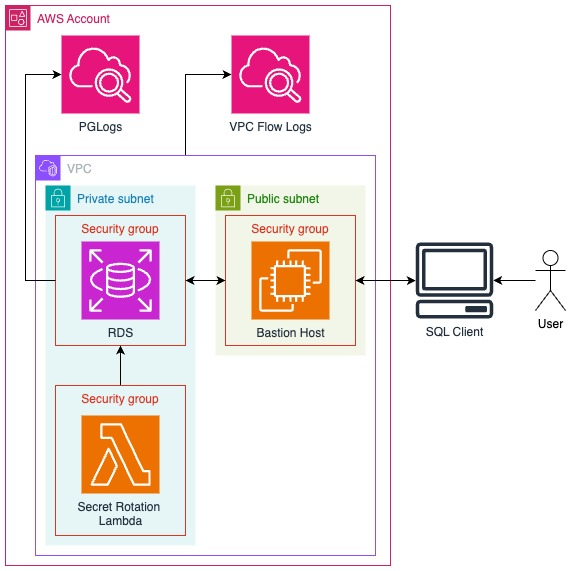
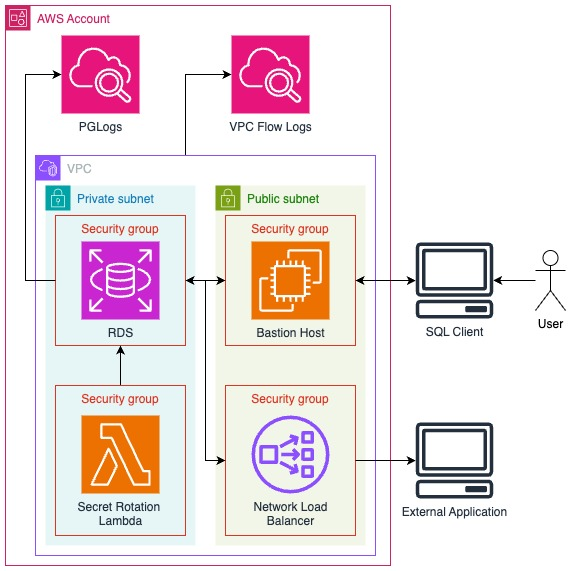
Added NLB option, improved tests

Changed region(s): [[0.3573, 0.655, 0.6252, 0.9527], [0.7145, 0.7145, 0.8932, 0.9229]]

diff --git a/lib/single-instance-rds.ts b/lib/single-instance-rds.ts
@@ -43,6 +43,9 @@ import {
 } from 'aws-cdk-lib/aws-cloudwatch';
 import {LogGroup, RetentionDays} from 'aws-cdk-lib/aws-logs';
 import {ServicePrincipal} from 'aws-cdk-lib/aws-iam';
+import {NetworkLoadBalancer, NetworkTargetGroup, TargetType} from 'aws-cdk-lib/aws-elasticloadbalancingv2';
+import {AwsCustomResource, AwsCustomResourcePolicy, PhysicalResourceId} from 'aws-cdk-lib/custom-resources';
+import {IpTarget} from 'aws-cdk-lib/aws-elasticloadbalancingv2-targets';
 
 // TODO: Cloudtrail
 
@@ -56,6 +59,8 @@ interface SingleInstanceRdsProps extends StackProps {
     passwordRotationInterval?: Duration;
     rdsPort?: number;
     removalPolicy?: RemovalPolicy;
+    withNlb?: boolean;
+    applicationIpAddress?: string;
 }
 
 export default class SingleInstanceRds {
@@ -69,6 +74,16 @@ export default class SingleInstanceRds {
 
     bastion: Instance;
 
+    nlb?: NetworkLoadBalancer;
+
+    current_timestamp = new Date().toISOString()
+        // eslint-disable-next-line prefer-regex-literals
+        .replace(new RegExp('\\.', 'g'), '')
+        // eslint-disable-next-line prefer-regex-literals
+        .replace(new RegExp(':', 'g'), '')
+        // eslint-disable-next-line prefer-regex-literals
+        .replace(new RegExp('-', 'g'), '');
+
     constructor(props: SingleInstanceRdsProps) {
         const {scope,} = props;
         const dbInstanceType = props.dbInstanceType
@@ -80,6 +95,8 @@ export default class SingleInstanceRds {
             : Duration.days(1);
         const rdsPort = props.rdsPort ? props.rdsPort : 5432;
         const removalPolicy = props.removalPolicy ? props.removalPolicy : RemovalPolicy.DESTROY;
+        const withNlb = props.withNlb ? props.withNlb : false;
+        const applicationIpAddress = props.applicationIpAddress ? props.applicationIpAddress : '';
 
         /// /////////////////////////////////////////////////
         /// /////////////////////////////////////////////////
@@ -273,6 +290,90 @@ export default class SingleInstanceRds {
         /// /////////////////////////////////////////////////
         /// /////////////////////////////////////////////////
         /// /////////////////////////////////////////////////
+        // Network load balancer
+
+        if (withNlb) {
+            // NLB security group
+            const nlbSecurityGroup = new SecurityGroup(scope, 'NLBSecurityGroup', {
+                securityGroupName: 'NLBSecurityGroup',
+                vpc: this.vpc,
+            });
+
+            this.rdsSecurityGroup.addIngressRule(nlbSecurityGroup, Port.tcp(rdsPort));
+
+            // If no IP is passed...
+            if (applicationIpAddress === '') {
+                throw new Error('Property applicationIpAddress is needed when withNlb === true.');
+                // If open to the internet...
+            } else if (applicationIpAddress === '0.0.0.0') {
+                nlbSecurityGroup.addIngressRule(Peer.anyIpv4(), Port.tcp(rdsPort));
+            } else {
+                nlbSecurityGroup.addIngressRule(Peer.ipv4(`${applicationIpAddress}/32`), Port.tcp(rdsPort));
+            }
+
+            // Network load balancer
+            this.nlb = new NetworkLoadBalancer(scope, 'RDSNLB', {
+                vpc: this.vpc,
+                vpcSubnets: {
+                    subnetType: SubnetType.PUBLIC,
+                },
+                internetFacing: true,
+                securityGroups: [
+                    nlbSecurityGroup,
+                ],
+                loadBalancerName: 'RDSNLB',
+            });
+
+            // RDS private IP
+            const getPrivateIp = new AwsCustomResource(scope, `GetPrivateIp${this.current_timestamp}`, {
+                onUpdate: {
+                    service: 'EC2',
+                    action: 'describeNetworkInterfaces',
+                    parameters: {
+                        Filters: [
+                            {
+                                Name: 'group-id',
+                                Values: [
+                                    this.rdsSecurityGroup.securityGroupId,
+                                ],
+                            },
+                        ],
+                    },
+                    physicalResourceId: PhysicalResourceId.of(`GetPrivateIp${this.current_timestamp}`),
+                },
+                policy: AwsCustomResourcePolicy.fromSdkCalls({
+                    resources: AwsCustomResourcePolicy.ANY_RESOURCE,
+                }),
+                logRetention: RetentionDays.ONE_DAY,
+            });
+
+            // The IP depends on RDS
+            getPrivateIp.node.addDependency(this.rds);
+
+            // The NLB depends on the IP
+            this.nlb.node.addDependency(getPrivateIp);
+
+            // NLB listener
+            this.nlb.addListener('RDSListener', {
+                port: rdsPort,
+                defaultTargetGroups: [
+                    new NetworkTargetGroup(scope, 'RDSTargetGroup', {
+                        port: rdsPort,
+                        targetType: TargetType.IP,
+                        targets: [
+                            new IpTarget(getPrivateIp.getResponseField('NetworkInterfaces.0.PrivateIpAddress')),
+                        ],
+                        vpc: this.vpc,
+                        targetGroupName: 'RDSTargetGroup',
+                    }),
+                ],
+            });
+        }
+
+        /// /////////////////////////////////////////////////
+        /// /////////////////////////////////////////////////
+        /// /////////////////////////////////////////////////
+        /// /////////////////////////////////////////////////
         // Dashboard and alarms
 
         const width = 6;
@@ -327,8 +428,8 @@ export default class SingleInstanceRds {
             | sort @timestamp desc
             | limit 100
             `,
-            width: width * 2,
-            height: height * 2,
+            width: width * 3,
+            height: height * 3,
         });
 
         // Logs widget for VPC flow logs
@@ -343,8 +444,8 @@ export default class SingleInstanceRds {
             | sort @timestamp desc
             | limit 100
             `,
-            width: width * 2,
-            height: height * 2,
+            width: width * 3,
+            height: height * 3,
         });
 
         // CW dashboard
@@ -402,6 +503,14 @@ export default class SingleInstanceRds {
             value: this.rds.secret!.secretFullArn!,
             exportName: 'RDSSecretARNOutput',
         });
+
+        // NLB DNS
+        if (withNlb) {
+            new CfnOutput(scope, 'NLBDNSOutput', {
+                value: this.nlb!.loadBalancerDnsName,
+                exportName: 'NLBDNSOutput',
+            });
+        }
 
         /// /////////////////////////////////////////////////
         /// /////////////////////////////////////////////////

diff --git a/test/single_instance_rds.test.ts b/test/single_instance_rds.test.ts
@@ -10,6 +10,8 @@ test('Test resource creation', () => {
         appName: 'mycooldb',
         bastionKeyPairName: 'someKey',
         myIpAddress: '1.2.3.4',
+        withNlb: true,
+        applicationIpAddress: '1.2.3.4',
     });
     const template = Template.fromStack(stack);
 
@@ -53,8 +55,8 @@ test('Test resource creation', () => {
     template.resourceCountIs('AWS::EC2::VPCEndpoint', 1);
 
     // SGs for RDS, rotation Lambda, bastion host, SM endpoint,
-    // NAT instance
-    template.resourceCountIs('AWS::EC2::SecurityGroup', 5);
+    // NAT instance, NLB
+    template.resourceCountIs('AWS::EC2::SecurityGroup', 6);
 
     /// /////////////////////////////////////////////////
     /// /////////////////////////////////////////////////
@@ -67,9 +69,12 @@ test('Test resource creation', () => {
         DBInstanceIdentifier: appName,
         AllocatedStorage: '20',
         Port: '5432',
-        // TODO: Add check for performance insights
-        // TODO: Add check for DB encryption
-        // TODO: Add check for CW log exports
+        EnablePerformanceInsights: true,
+        PerformanceInsightsRetentionPeriod: 93,
+        StorageEncrypted: true,
+        EnableCloudwatchLogsExports: [
+            'postgresql',
+        ],
     });
 
     // Credential rotation
@@ -88,7 +93,31 @@ test('Test resource creation', () => {
     // Bastion
     template.hasResourceProperties('AWS::EC2::Instance', {
         KeyName: 'someKey',
-        // TODO: Add checks for encryption on root drive
+        BlockDeviceMappings: [
+            {
+                DeviceName: '/dev/xvda',
+                Ebs: {
+                    Encrypted: true,
+                },
+            },
+        ],
+    });
+
+    /// /////////////////////////////////////////////////
+    /// /////////////////////////////////////////////////
+    /// /////////////////////////////////////////////////
+    /// /////////////////////////////////////////////////
+    // Network load balancer
+
+    template.hasResourceProperties('AWS::ElasticLoadBalancingV2::LoadBalancer', {
+        Name: 'RDSNLB',
+        Scheme: 'internet-facing',
+        Type: 'network',
+    });
+
+    template.hasResourceProperties('AWS::ElasticLoadBalancingV2::Listener', {
+        Port: 5432,
+        Protocol: 'TCP',
     });
 
     /// /////////////////////////////////////////////////
@@ -113,7 +142,6 @@ test('Test resource creation', () => {
     // Dashboard
     template.hasResourceProperties('AWS::CloudWatch::Dashboard', {
         DashboardName: 'RDSDashboard',
-        // TODO: Add check for log widget
     });
 
     /// /////////////////////////////////////////////////
@@ -121,6 +149,8 @@ test('Test resource creation', () => {
     /// /////////////////////////////////////////////////
     /// /////////////////////////////////////////////////
     // Output
+
+    expect(Object.keys(template.findOutputs('*')).length).toBe(6);
 
     template.hasOutput('VpcIdOutput', {
         Export: {
@@ -140,9 +170,21 @@ test('Test resource creation', () => {
         },
     });
 
+    template.hasOutput('BastionHostDNSOutput', {
+        Export: {
+            Name: 'BastionHostDNSOutput',
+        },
+    });
+
     template.hasOutput('RDSSecretARNOutput', {
         Export: {
             Name: 'RDSSecretARNOutput',
+        },
+    });
+
+    template.hasOutput('NLBDNSOutput', {
+        Export: {
+            Name: 'NLBDNSOutput',
         },
     });
 });

diff --git a/lib/single-instance-rds-stack.ts b/lib/single-instance-rds-stack.ts
@@ -14,6 +14,8 @@ interface SingleInstanceRdsStackProps extends StackProps {
     passwordRotationInterval?: Duration;
     rdsPort?: number;
     removalPolicy?: RemovalPolicy;
+    withNlb?: boolean;
+    applicationIpAddress?: string;
 }
 
 export default class SingleInstanceRdsStack extends Stack {
@@ -30,6 +32,8 @@ export default class SingleInstanceRdsStack extends Stack {
             passwordRotationInterval: props.passwordRotationInterval,
             rdsPort: props.rdsPort,
             removalPolicy: props.removalPolicy,
+            withNlb: props.withNlb,
+            applicationIpAddress: props.applicationIpAddress,
         });
     }
 }

diff --git a/bin/single-instance-rds.ts b/bin/single-instance-rds.ts
@@ -8,4 +8,6 @@ new SingleInstanceRdsStack(app, 'SingleInstanceRdsStack', {
     appName: 'mycooldb',
     bastionKeyPairName: 'single-rds-bastion',
     myIpAddress: '1.2.3.4',
+    withNlb: true,
+    applicationIpAddress: '1.2.3.4',
 });

diff --git a/README.md b/README.md
@@ -2,7 +2,7 @@
 
 **Important note:** Deploying this will cost you money. Parts of this deployment are not in the AWS free tier.
 
-**Another important note:** Please check the `bin/single-instance-rds` file to set the values you want. By default, the IP and KP name are dummy values and the deployment will fail unless you change it.
+**Another important note:** Please check the `bin/single-instance-rds.ts` file to set the values you want. By default, the IP and KP name are dummy values and the deployment will fail unless you change it.
 
 **And another one:** Usually, single instance DBs are not production recommended due to availability and
 fault tolerance. Also, this uses a NAT instance instead of a NAT gateway for cost purposes.
@@ -10,10 +10,13 @@ fault tolerance. Also, this uses a NAT instance instead of a NAT gateway for cos
 ## Summary
 
 This repo deploys a secure RDS instance in a private subnet. Additionally, it sets up password rotations for the
-root user. It also creates an EC2 bastion host to allow queries via an SSH tunnel. From a monitoring perspective, 
-it provides a basic alarms on CPU usage, and free disk space in a CW dashboard. The secret ARN with
-the connection details and the bastion DNS are provided as outputs of the template. If something can be KMS encrypted,
-it is KMS encrypted.
+root user. It also creates an EC2 bastion host to allow user queries via an SSH tunnel. Optionally, a network load 
+balancer can be deployed for applications to query the instance.
+
+If something can be KMS encrypted, it is KMS encrypted.
+
+From a monitoring perspective, it provides a basic alarms on CPU usage, and free disk space in a CW dashboard. In
+the same dashboard, the VPC flow logs and PostgreSQL logs are shown.
 
 ## Infrastructure
 
@@ -23,7 +26,7 @@ it is KMS encrypted.
 
 - You know the instance size you need.
 - You are ok with a single RDS instance and no read replica or fail-overs.
-- You don't need a public endpoint.
+- You don't need a public endpoint (however, if you do, you can deploy the NLB).
 - You have a fixed IP you will use to connect to the DB.
 
 ## Things This Doesn't Do
@@ -35,9 +38,10 @@ it is KMS encrypted.
 
 * For someone to be able to successfully connect to the DB from outside the VPC, they would have to:
   * Have access to the secret in SM.
-  * Make the request from the IP in the constants file.
-  * Have access to the AWS console or CLI to CloudFormation or EC2 to get the bastion DNS.
-  * Have access to the key pair for the bastion.
+  * Make the request from the IP in the stack file.
+  * Have access to the AWS console or CLI to CloudFormation or EC2 to get the bastion or NLB DNS.
+  * Have access to the key pair for the bastion (doesn't apply if the NLB is used).
 * JetBrains IDEs for example have the ability to connect to databases using the SSH tunnel, the end user experience is smooth after the setup.
 * You can use the `example_sql_to_test.sql` file to play around after creating the DB.
 * The bastion has no permissions to do anything that is not the tunnel, that is why it is on a public subnet with a public address.
+* For cost purposes, a NAT instance is used instead of NAT gateways.
